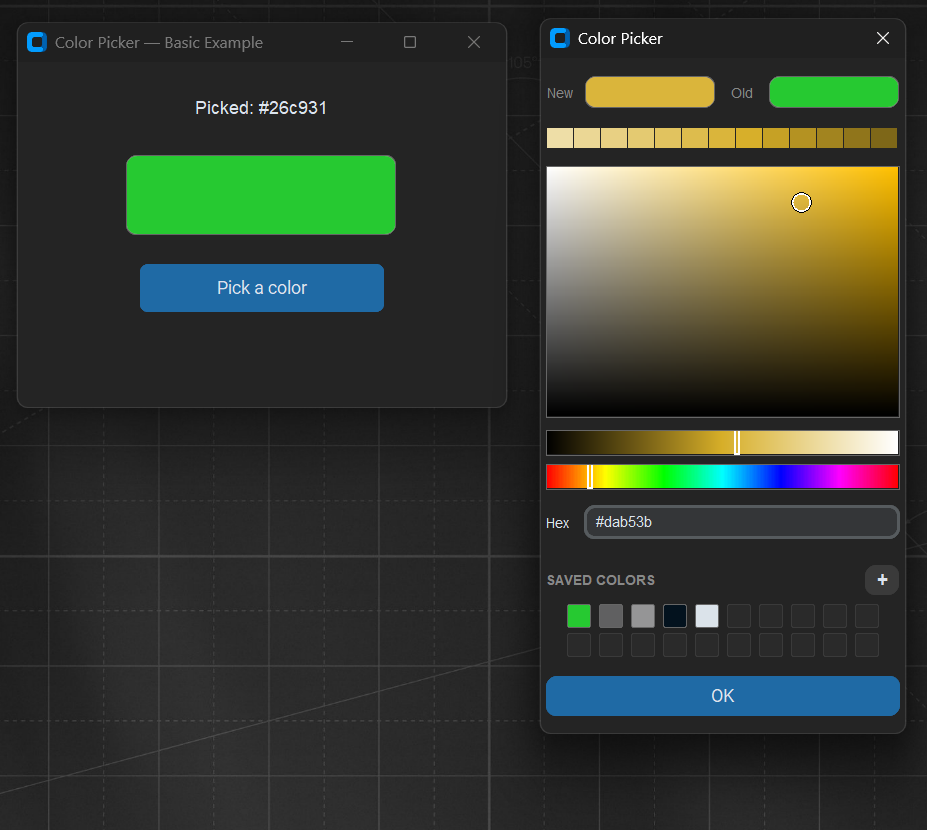
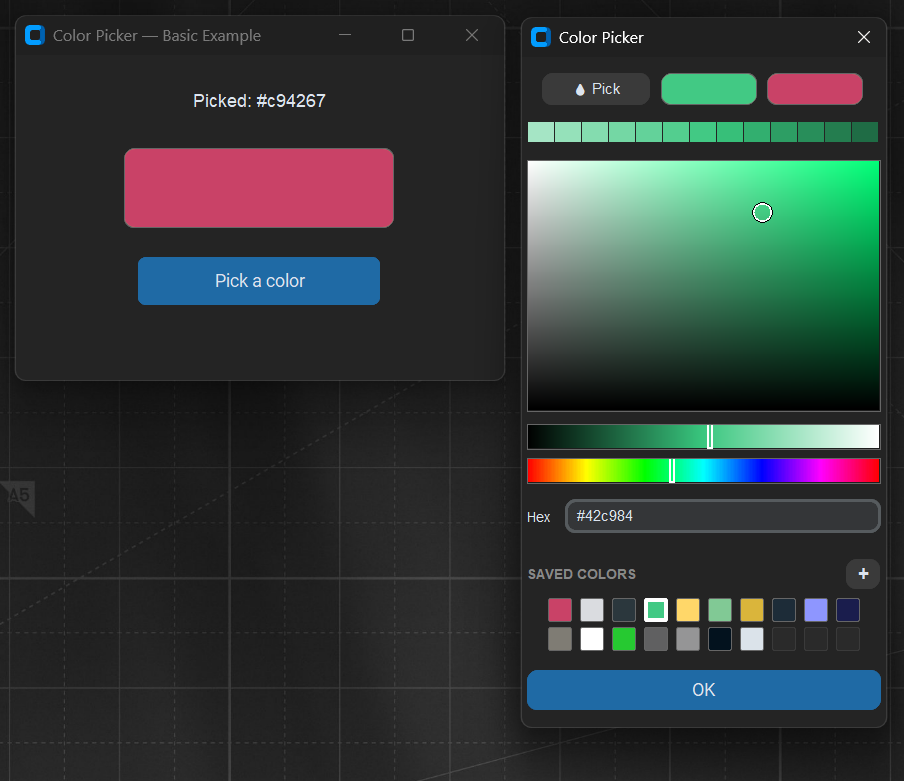
Replace screenshots with better ones + add demo GIF
- picker.png: full picker with saved colors filled (hero shot)
- integration.png: picker alongside example app
- example.png: basic example starting state
- demo.gif: animated demo of the picker in action (~1.4 MB)

README now shows both the static picker and the animated demo.

diff --git a/README.md b/README.md
@@ -5,7 +5,11 @@ A modern, **Photoshop-style color picker dialog** for [CustomTkinter](https://gi
 > Pure Python + Pillow. DPI-aware. Modal dialog. Works on Windows, macOS, Linux.
 
 <p align="center">
-  <img src="screenshots/picker.png" alt="Color picker dialog" width="320">
+  <img src="screenshots/picker.png" alt="Color picker dialog" width="280">
+</p>
+
+<p align="center">
+  <img src="screenshots/demo.gif" alt="Color picker in action" width="520">
 </p>
 
 ---
